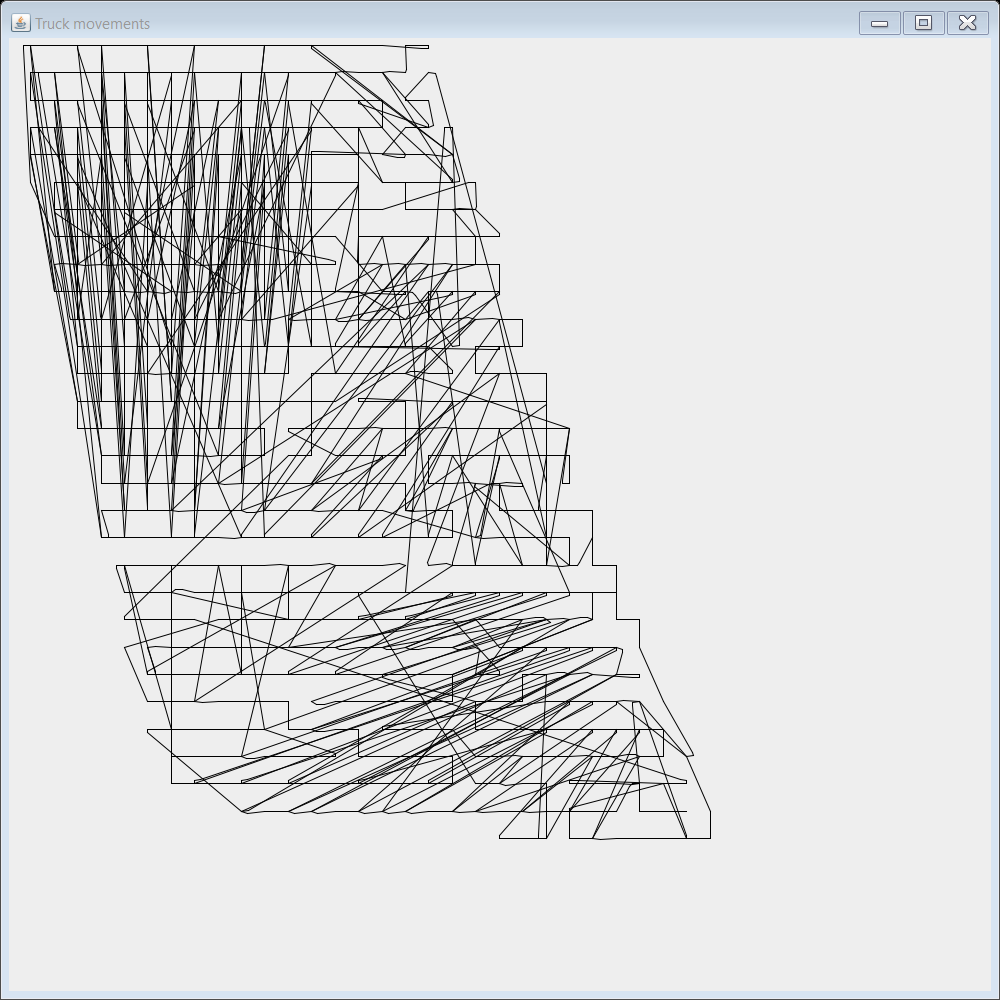
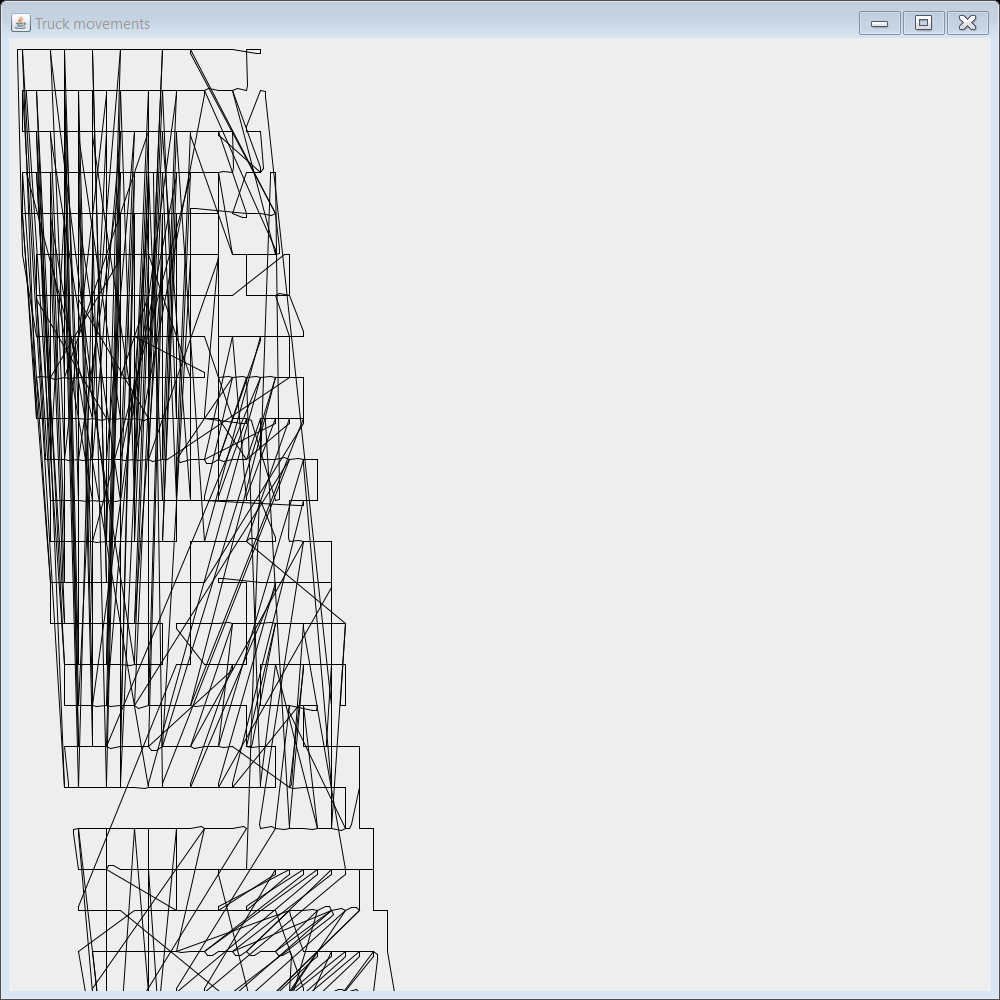
Class created

Changed region(s): [[0.0, 0.031, 0.682, 0.992]]

diff --git a/src/Main.java b/src/Main.java
@@ -20,7 +20,7 @@ public class Main {
 				
 				ArrayList <Movement> path = new Solver(field, truck).solve();
 				
-				new PathPrinter().print(path, 5.0, 2.0, "PathPrinted\\PATH_cellplot" + inputCode + "b_" + capacity + "_.png");
+				//new PathPrinter().print(path, 3.0, 3.0, "PathPrinted\\PATH_cellplot" + inputCode + "b_" + capacity + "_.png");
 				
 				long stop = System.currentTimeMillis();
 				

diff --git a/src/Path.java b/src/Path.java
@@ -1,0 +1,12 @@
+
+public class Path {
+	private class Stopover {
+		Coordinates coordinates;
+		double quantityToBringIn;
+		
+		public Stopover(Coordinates coordinates, double quantityToBringIn) {
+			this.coordinates = coordinates;
+			this.quantityToBringIn = quantityToBringIn;
+		}
+	}
+}
